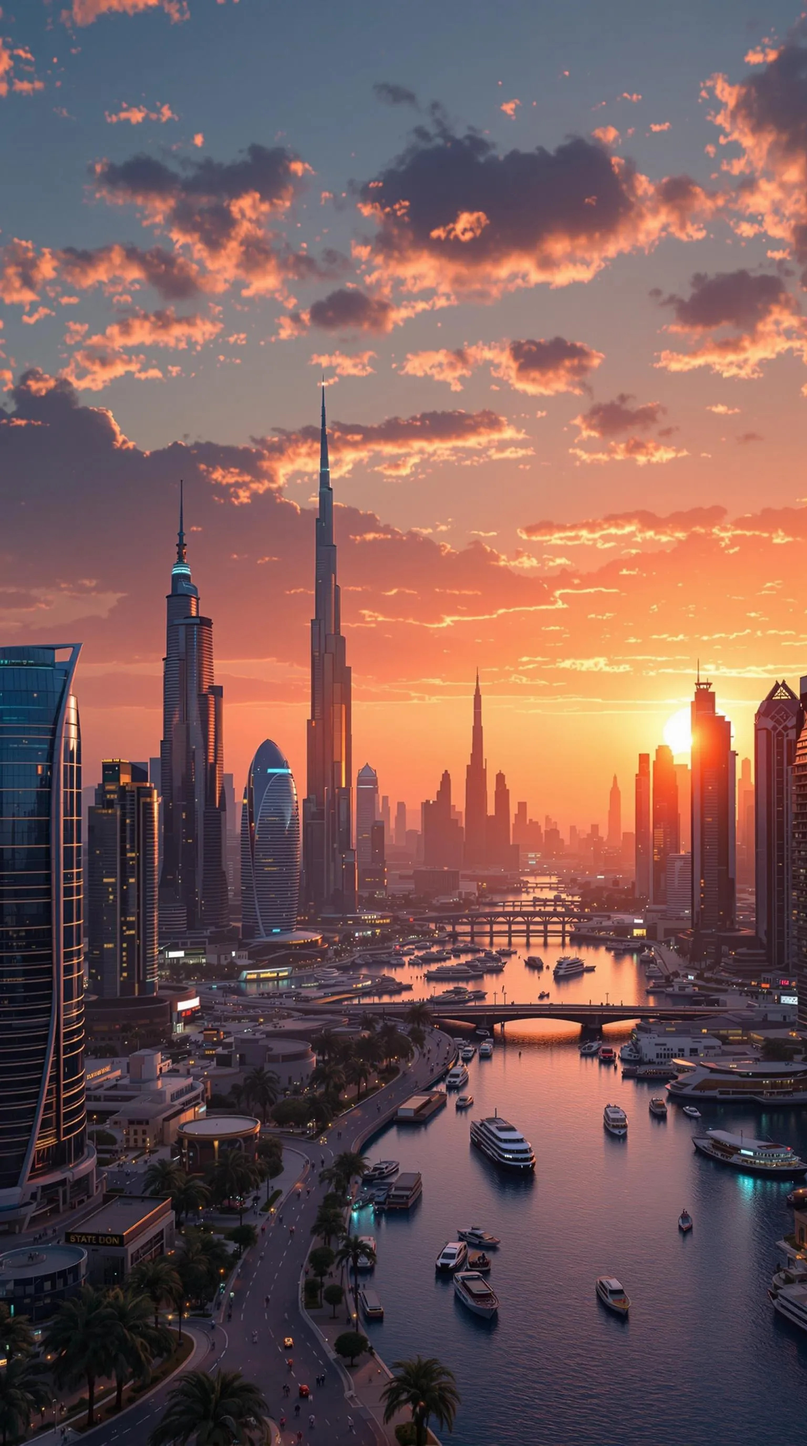
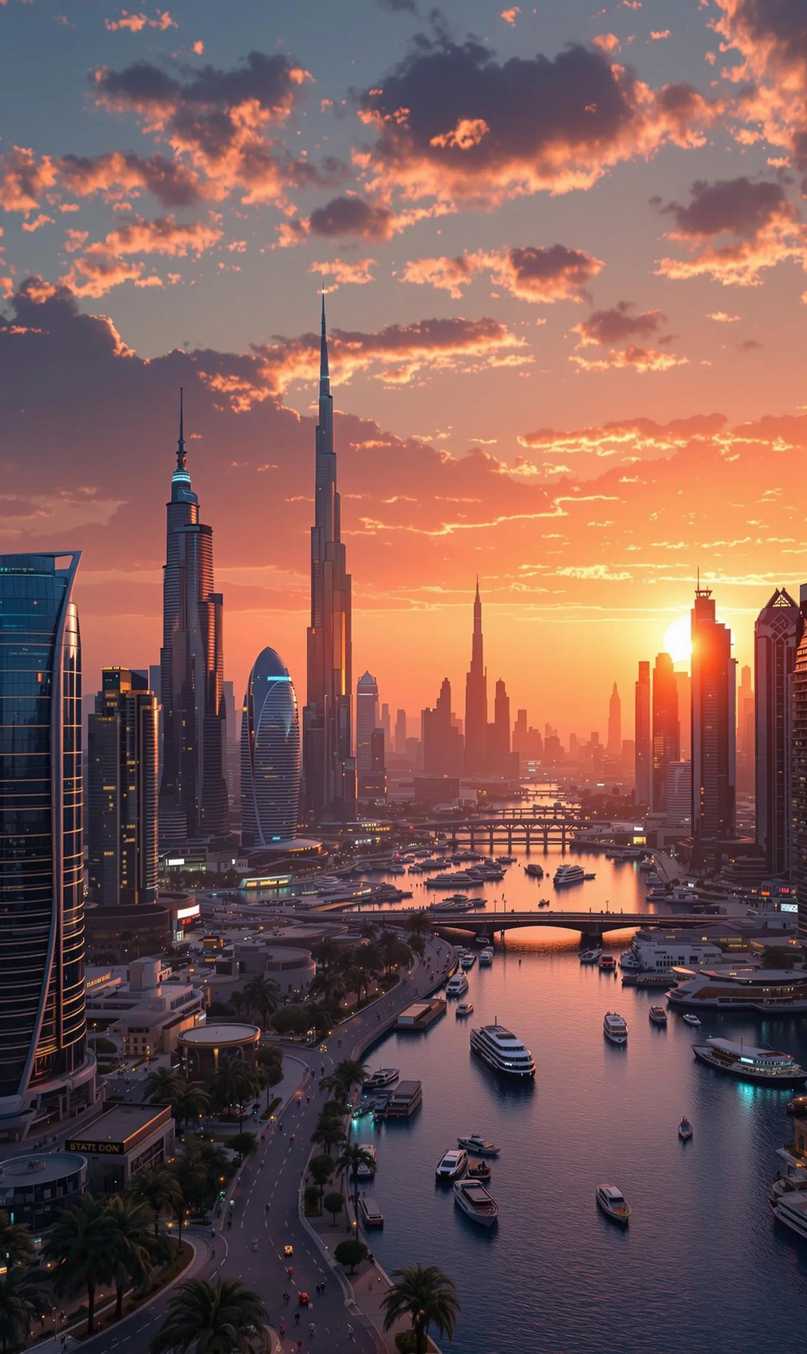
.

diff --git a/flutter_service_worker.js b/flutter_service_worker.js
@@ -22,11 +22,11 @@ const RESOURCES = {".git/COMMIT_EDITMSG": "8cf8463b34caa8ac871a52d5dd7ad1ef",
 ".git/hooks/push-to-checkout.sample": "c7ab00c7784efeadad3ae9b228d4b4db",
 ".git/hooks/sendemail-validate.sample": "4d67df3a8d5c98cb8565c07e42be0b04",
 ".git/hooks/update.sample": "647ae13c682f7827c22f5fc08a03674e",
-".git/index": "d3ad69f630b27f50adb262cc9e04f119",
+".git/index": "e56daf94ef5fb3f0d8dee344256069eb",
 ".git/info/exclude": "036208b4a1ab4a235d75c181e685e5a3",
-".git/logs/HEAD": "0b16967828a7a5813f2889c889da7b60",
-".git/logs/refs/heads/main": "a34108a13f093cbf4cbae6fa0f2e863e",
-".git/logs/refs/remotes/origin/main": "23ec80b992bbb9bf126479fb48509b8f",
+".git/logs/HEAD": "32349c641894498714b8c0dbda5650d9",
+".git/logs/refs/heads/main": "6e33e4bacef1c06001c2f0f044fdf8d3",
+".git/logs/refs/remotes/origin/main": "a63441d291f9c3601c4e248555b4ad2d",
 ".git/objects/00/2a9a844c2117829c633774a8673a525e86561d": "ae1874559c54620d94daf17a4bbd04d9",
 ".git/objects/00/3d09138e0d33201c6b98ce40bc0ab1f7e971b0": "e17a532b324166b399ad59a5c539a0ed",
 ".git/objects/00/44b0765aede4e3a90ec2d4203b6bb574220a3b": "47fe0fdedfc07eae97d4e6cbd3034834",
@@ -270,6 +270,7 @@ const RESOURCES = {".git/COMMIT_EDITMSG": "8cf8463b34caa8ac871a52d5dd7ad1ef",
 ".git/objects/19/9035ce3e51cbf94b977b4eb415865b5eadd3c0": "567b955abf68b7cf3a7eff27ebbb1059",
 ".git/objects/19/9e4de560b4e42aabaa08965708b3c069d3742f": "3855006cf1ebc41e9aea33d01535f955",
 ".git/objects/19/b9566359712f90aaf7af59bbbcd006800cd5de": "ad44e6186ee7a42e0846d7929e98770d",
+".git/objects/19/e5104fa55e9deb8929fc046ba2ac8d6fd7eee3": "48b07bbc99cf0ef35fbaa31ecef39e15",
 ".git/objects/19/e870382db7a3023036717175f1e39350e95a80": "01a75dcf582aa594709da9eba793d7cb",
 ".git/objects/19/e9838e50c73eb0609b64cd1e30f994b9474358": "c0c1fac2ddc094db5f00bf79e4f8c793",
 ".git/objects/19/ed06b1f461254f0eaebffbacdb93396a9c03d8": "1a0a883ca69bcb5d370ac1266776170b",
@@ -519,6 +520,7 @@ const RESOURCES = {".git/COMMIT_EDITMSG": "8cf8463b34caa8ac871a52d5dd7ad1ef",
 ".git/objects/34/4ff576ea8201c1bf33989dd8d0c55cdec52015": "ec73898193b116a8f8a067e193d92e64",
 ".git/objects/34/661b7342985fc8993fd5c61d0cc76b3cca1e7a": "ac8bfa38c4e70bbb3f45ec8bead6af6a",
 ".git/objects/34/a92e1549297e75adf27cf431767b3c7336fbd9": "2aec0d080213d52d9bdb0f062efb276e",
+".git/objects/34/ad78941f12100ee84629701393f8d070a3f31a": "fbe7c48619d71f0c8f80c7cc1af11f6b",
 ".git/objects/34/b4536b78cc4676b45a19d24bd6b8d166802762": "bcf9de3871c32ae8b8ebfd58169d21cf",
 ".git/objects/34/d494f0997a3c7a9214f90b42f62e1a9553447e": "26fba4e8bf790e749000f55f54c11451",
 ".git/objects/34/e8a7f8d734922732fc12c18a09b337ca70b5ba": "890f86cd1a5141e48c5cd72b1d252b6a",
@@ -1084,6 +1086,7 @@ const RESOURCES = {".git/COMMIT_EDITMSG": "8cf8463b34caa8ac871a52d5dd7ad1ef",
 ".git/objects/6f/45a28f826d8eedfeaa36f3686620c1f3b88776": "0f7ffb806aafc79a7106f74de59e0106",
 ".git/objects/6f/571cc3b11ca1af36003a191766cb83477910ff": "eaa63ab89317bab691ec29c95edf7887",
 ".git/objects/6f/6937faa13b4c872aa89490954fb179bdb37612": "0104fd7c3577bc70a749793ac464312e",
+".git/objects/6f/70a894e0ec83f5ad38e213164ce1ec677c8a9a": "f9cbe1b4d7169f485f407df71ac52993",
 ".git/objects/6f/742ad89f8defc1a839ee05044426d5aed035b0": "56555b6cbcdd0666d373162f0734d714",
 ".git/objects/6f/9f8509640f7778d0d7f7ddba4ffc557363b2b5": "b469dcb71857e0bccc6a5246e8b6cdfd",
 ".git/objects/6f/aa313aa40b13b5e1c0884665df84ac6c854997": "4fe61283ff66627d9d3f51587adaf98a",
@@ -1124,6 +1127,7 @@ const RESOURCES = {".git/COMMIT_EDITMSG": "8cf8463b34caa8ac871a52d5dd7ad1ef",
 ".git/objects/73/a3444d342dec6b7ce46bb9bb29a61aed567347": "b4b941e198008a63ef7139d8aad6cb2b",
 ".git/objects/73/b91a1d39b774bc5a45241c7324914cf5d4d32a": "c1e5caa842b2cdbba024240c1e7f277e",
 ".git/objects/73/eb171d84ca1f6de166b4c8b990d9c133c18ad8": "d8cdc0577cc584c05d3d799de20ab2e3",
+".git/objects/73/f25d2b189537d56ba41f60d6a31246a350e6ed": "e1a5650fa3a25bdbe41b1406da957526",
 ".git/objects/73/fea47ff41e693b98f1c17b84c904d19a5fdeb0": "41d234fd0af9b366fbffb8d3a0e4f85f",
 ".git/objects/74/1613196e6ed6e82cf9d35b16897a90b4a15bf6": "8d1bf595f9d9b2e7f246515cbbb69add",
 ".git/objects/74/1ae653aabe2c71ae2ab5e50479199ee1c0e7a2": "ad5058339aef826460b4705bce60c957",
@@ -1249,6 +1253,7 @@ const RESOURCES = {".git/COMMIT_EDITMSG": "8cf8463b34caa8ac871a52d5dd7ad1ef",
 ".git/objects/82/510bfb026afea2192bda89dace79e18724aa2b": "1af66efa2d1b7b3814c65de6c343feeb",
 ".git/objects/82/a172a5fdb07b43676c558a2abc5c6faa7773af": "3837588f1d66c217316d60d9b3f22c89",
 ".git/objects/82/b50af166147e3de6d95851c0b1cb72edddac70": "db30122c75a9421281af8f713a9951d3",
+".git/objects/82/e3e0647b74fbc19ede06d2b7c04904400a9cc4": "67ae4c338ddfa971d59292c7c433a469",
 ".git/objects/82/f79fbf92a043d610d380cd6cfb20bf554c37e8": "0103413aef65f71b8488b07e07ff3899",
 ".git/objects/83/378930459308671cb1abb4863620e3bab07f19": "8957ed0b4813b4ee6177f10808d7dca7",
 ".git/objects/83/4b0f2e07ad5083f089ffe2980725f26bf7553c": "450c9d7bd407883b0dc602ebcb06a1bc",
@@ -1383,6 +1388,7 @@ const RESOURCES = {".git/COMMIT_EDITMSG": "8cf8463b34caa8ac871a52d5dd7ad1ef",
 ".git/objects/90/d8705e7c17f4eee9a3ac8707897cb7b919b3ac": "ea9452ccd7b9f2bba0bea73926045a1e",
 ".git/objects/90/e3cc78eeaa00e871c3f3905e8b5e1972d2fbe7": "cf323df5c19fd00fc7a560b55b85b43d",
 ".git/objects/90/f080cd37b2a4cbd5d425c847d7c7fa21f5a78e": "e95aa07869a862b399c6273574678b5f",
+".git/objects/91/1be788d4b34eccc792bad4f703d75716693b3f": "dcd7274eb24b0216a6a4c7473bbd4659",
 ".git/objects/91/463f2eac210cc7238642dd4af92e6186bd0324": "1bf6e0ba6894ea4fa515d0941c34014c",
 ".git/objects/91/4d2a2f76d2075ce89b5efd218570a460ece385": "7e2a8ceea4514b47f3a71ff5be062fad",
 ".git/objects/91/522fdfd98ec409af0efd57f5f39795571eb5a4": "7659e29196677d6c07cd327c53f20190",
@@ -1420,6 +1426,7 @@ const RESOURCES = {".git/COMMIT_EDITMSG": "8cf8463b34caa8ac871a52d5dd7ad1ef",
 ".git/objects/94/8897d77645fce40ead8cf1f03c1df4e79e6ae6": "56ad870fbcc63103495f82a72d564193",
 ".git/objects/94/aa417196c133fc1bd606c38dee9dfb02a3ab16": "6d29938fc285baff2d599782d37ca16b",
 ".git/objects/94/ab0dcacc3e8a1d7fa3e344c7741f79dcb90716": "f5fa7911904f8a2cc908af1f8d70022b",
+".git/objects/94/c04870faf0ddf81b45ce3945bec1a199925011": "241963723752a50f3c89261f937c474a",
 ".git/objects/94/db47ccf27c25ee8a8f42ef2f7a3881defe8d06": "17bf8b62f67870b81f98ed0ce6700001",
 ".git/objects/94/e1439aa96d290db66069f522983e6eb5bde9ce": "26f013b5a7e984f0fba1c131aa74ab75",
 ".git/objects/94/eab38e0b55e96fe61fca4171e53ca028c81898": "8fb717e8de4e66c350c81e836b5fac2f",
@@ -1685,6 +1692,7 @@ const RESOURCES = {".git/COMMIT_EDITMSG": "8cf8463b34caa8ac871a52d5dd7ad1ef",
 ".git/objects/b1/836741a4904d7d10b948ab570a93b330f91a38": "51e74cb0c349afb671067d000f3602bb",
 ".git/objects/b1/8dea04b681a7352e6d58c6ccf558ef8e4c5f3f": "9e9b5b99b59fd845acc437cfab03f9f3",
 ".git/objects/b1/b0403aabbf0c53da34895bb885d20a92ea3018": "a6471992f0648c072ec5d0f00897d1a2",
+".git/objects/b1/cedc80512c4bfb5ce81ebb362e4de18b3cbc34": "3cbd1876c921dd07a40e810abfdd97e8",
 ".git/objects/b1/d61e6450853e79bb66a550028050bc13158ed7": "87b666dbaa8f29f0d4e4efc77cdf9bcf",
 ".git/objects/b1/de668b6a29eb3ccb996c5fb524615da5ffde11": "828e126904a17b14aedcbcb2db51b0a0",
 ".git/objects/b1/f1d7eccd0dce6c67fa82fd4f6cd3e33d550929": "18e43d9e2c4d2431ac485a8357074d25",
@@ -1898,6 +1906,7 @@ const RESOURCES = {".git/COMMIT_EDITMSG": "8cf8463b34caa8ac871a52d5dd7ad1ef",
 ".git/objects/c6/683894152de8dd28e3a44dfd5e31e0e805e3a8": "3793215982b08a45f16990a51964ac84",
 ".git/objects/c6/8d6d5be8f5ae4e66199275cd2d55ce3a00337f": "c3c286893d5e4d7ca12d5b51533ad3bd",
 ".git/objects/c6/94168dee4555e333bdd0889be2f237ba37d3f2": "6bc5defb5322164df9cfa39a162db9d8",
+".git/objects/c6/a5dbc410f747ecb5d7bbcbf0e036ce99ccc563": "5e300bef1cfb2e9ad121d5538b600422",
 ".git/objects/c6/b22813f0e708f7970948d8e271b2183f7f4357": "6adf6d297c73ea0fad9e24aaa43da89f",
 ".git/objects/c6/c67749d23b525cdc87402c881bb7f540d68d46": "cd4ffa0235836b3ea4d59bc94926ebbc",
 ".git/objects/c6/e091a9611e45ac717f852aed813b2c8b6f797c": "5fe334770e39792843e34165aeec6246",
@@ -1969,6 +1978,7 @@ const RESOURCES = {".git/COMMIT_EDITMSG": "8cf8463b34caa8ac871a52d5dd7ad1ef",
 ".git/objects/ce/7499127519bc76a59ced957b574e2abbd361d1": "97ee583cff7cee25306be36eea1b092a",
 ".git/objects/ce/9613e3d0223fd358c9c6829208932648543a8a": "f4fc3348f0aa8951f5b291f7be58a14f",
 ".git/objects/ce/af22c10779396ccce2b72906956750eae7ab87": "9a2ddf71d6ec25a31ffea875514fa24f",
+".git/objects/ce/b1590b268ff947929084a6b0b6ea98f7e2adde": "c013786e0f260d098a51e958ef81e661",
 ".git/objects/ce/d94a337a824493aee0807bdb8b1140274ad423": "75d62339d37caba4eb67bbb5372c0e09",
 ".git/objects/ce/e85c8aeb97e7c3bbe25fc50cedca740da21629": "e53044ce78761d3df190f213181c3a44",
 ".git/objects/ce/e9570f83c86fa9d5fb18d073b1a8945d1eb806": "80ddd2b899e94435b342cbc21f1e6987",
@@ -2235,6 +2245,7 @@ const RESOURCES = {".git/COMMIT_EDITMSG": "8cf8463b34caa8ac871a52d5dd7ad1ef",
 ".git/objects/ea/8d13b37666d377255c417d156d542e708a1444": "e555ba96f9a9aec3e2c76b0fbc2ef94e",
 ".git/objects/ea/9cf153181eacd06723d8e26acc41f971487ebf": "43c994785a906f62b6d71ff046a62105",
 ".git/objects/ea/a144c460122a048686ddfcb0ceff43c8fc2a50": "c0cd71aad248a686f0b076965b954a49",
+".git/objects/ea/dfa358b59c1a08c609815cf92337792d75886a": "dba229c306083b9dcce92a3361fc8af1",
 ".git/objects/ea/e6d58c594363402f37dd663149dece3bdd1eb0": "cc2239117f785b1afdbee64c1d5098e6",
 ".git/objects/ea/ed3d1b09937ce27ef42b362b2543c81ddc0d3c": "19fced2fea655bdb2d9f40388fb41633",
 ".git/objects/eb/0147dbf3d5a6c52faabadb37d86aef2c993cf4": "40ec51e6009a6e42b3ddba4fd3bb9fd3",
@@ -2321,6 +2332,7 @@ const RESOURCES = {".git/COMMIT_EDITMSG": "8cf8463b34caa8ac871a52d5dd7ad1ef",
 ".git/objects/f2/9a924da64444a84d67813f3eca472de45b3512": "5dfb767d2beab9e81c4db9e3db0a5849",
 ".git/objects/f2/a8278740fef0b82ee6f790aee14eab945b9e0e": "f1bf3ce1e9f073703d9296d39420543b",
 ".git/objects/f2/a90d9b4576af40c4f11de61508523247f811cd": "12b47b008130e8390187e3b3c7ec339f",
+".git/objects/f2/b7522d64cc4a5fe6cf32972738a6d616063b62": "a6ae074a39c173833cc28dc95f3305cd",
 ".git/objects/f2/baf8129aa1847ca545cc4fbce8dd44111208e1": "23965357b73255e6b42778882391ecab",
 ".git/objects/f2/c50f883ec19d33f8bec0040f07622b6b06dff2": "d05e6bf138a28051e31733c3b5b96fcb",
 ".git/objects/f2/cc6c6aea320c71c00a915d633fe49613d90f84": "fc3a0991e9cfdee1612a100dadbc550d",
@@ -2466,8 +2478,8 @@ const RESOURCES = {".git/COMMIT_EDITMSG": "8cf8463b34caa8ac871a52d5dd7ad1ef",
 ".git/objects/ff/f7c9149012efabacde7c7f374d5aed41b918f6": "73eb4ae36c7716946e91c447e0ca9984",
 ".git/ORIG_HEAD": "2b5cc19edce88e21f8927d04ee19319d",
 ".git/REBASE_HEAD": "2b5cc19edce88e21f8927d04ee19319d",
-".git/refs/heads/main": "de2fbd8057851614c78433410ef36796",
-".git/refs/remotes/origin/main": "de2fbd8057851614c78433410ef36796",
+".git/refs/heads/main": "0294dfb7812d27845228e674423a9a8e",
+".git/refs/remotes/origin/main": "0294dfb7812d27845228e674423a9a8e",
 "assets/AssetManifest.bin": "0cff43153c5fe0cf46d840b95356d97c",
 "assets/AssetManifest.bin.json": "2d8093ca7ae816b69fe2d0dc187bba01",
 "assets/AssetManifest.json": "fbea71b566b0091aaedb95c8a2cf0d88",
@@ -2483,7 +2495,7 @@ const RESOURCES = {".git/COMMIT_EDITMSG": "8cf8463b34caa8ac871a52d5dd7ad1ef",
 "assets/assets/images/ain_dubai.jpg": "5152236aaf452c8fe60b32a0efb94641",
 "assets/assets/images/background.jpg": "b1abbf35809a6d0a14ca56f0b17f526c",
 "assets/assets/images/background2.jpg": "856f2db01e8163cf65239dfc13bfdb2d",
-"assets/assets/images/background_evening.jpg": "33124b94c5c238be0b489e4adbd34b2c",
+"assets/assets/images/background_evening.jpg": "5f5dae0117e138c96356b4f8dba54819",
 "assets/assets/images/background_hd4.jpg": "ffc9cc9d49f896afa9f2826f25ab2b62",
 "assets/assets/images/bomb.png": "83db04d59038fec7e8e2113eacf4d7b5",
 "assets/assets/images/burj_khalifa.jpg": "53e3c49812512c765e35e038fe869200",
@@ -2548,7 +2560,7 @@ const RESOURCES = {".git/COMMIT_EDITMSG": "8cf8463b34caa8ac871a52d5dd7ad1ef",
 "canvaskit/skwasm.worker.js": "89990e8c92bcb123999aa81f7e203b1c",
 "favicon.png": "5dcef449791fa27946b3d35ad8803796",
 "flutter.js": "f393d3c16b631f36852323de8e583132",
-"flutter_bootstrap.js": "71f5c87b1dee18e6c0b6c908775f2603",
+"flutter_bootstrap.js": "75d0716d0d8a261a74d24bb0de2892a2",
 "icons/Icon-192.png": "ac9a721a12bbc803b44f645561ecb1e1",
 "icons/Icon-512.png": "96e752610906ba2a93c65f8abe1645f1",
 "icons/Icon-maskable-192.png": "c457ef57daa1d16f64b27b786ec2ea3c",

diff --git a/flutter_bootstrap.js b/flutter_bootstrap.js
@@ -11,6 +11,6 @@ _flutter.buildConfig = {"engineRevision":"a18df97ca57a249df5d8d68cd0820600223ce2
 
 _flutter.loader.load({
   serviceWorkerSettings: {
-    serviceWorkerVersion: "547167085"
+    serviceWorkerVersion: "2171793778"
   }
 });
